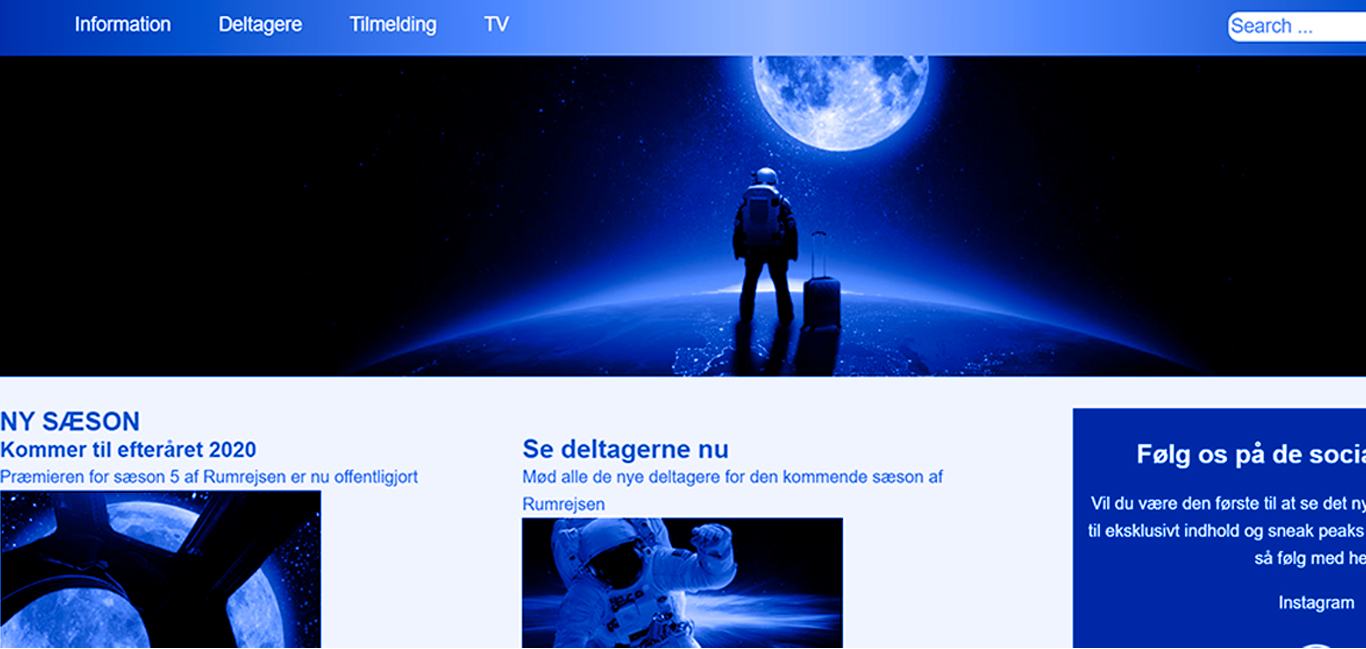
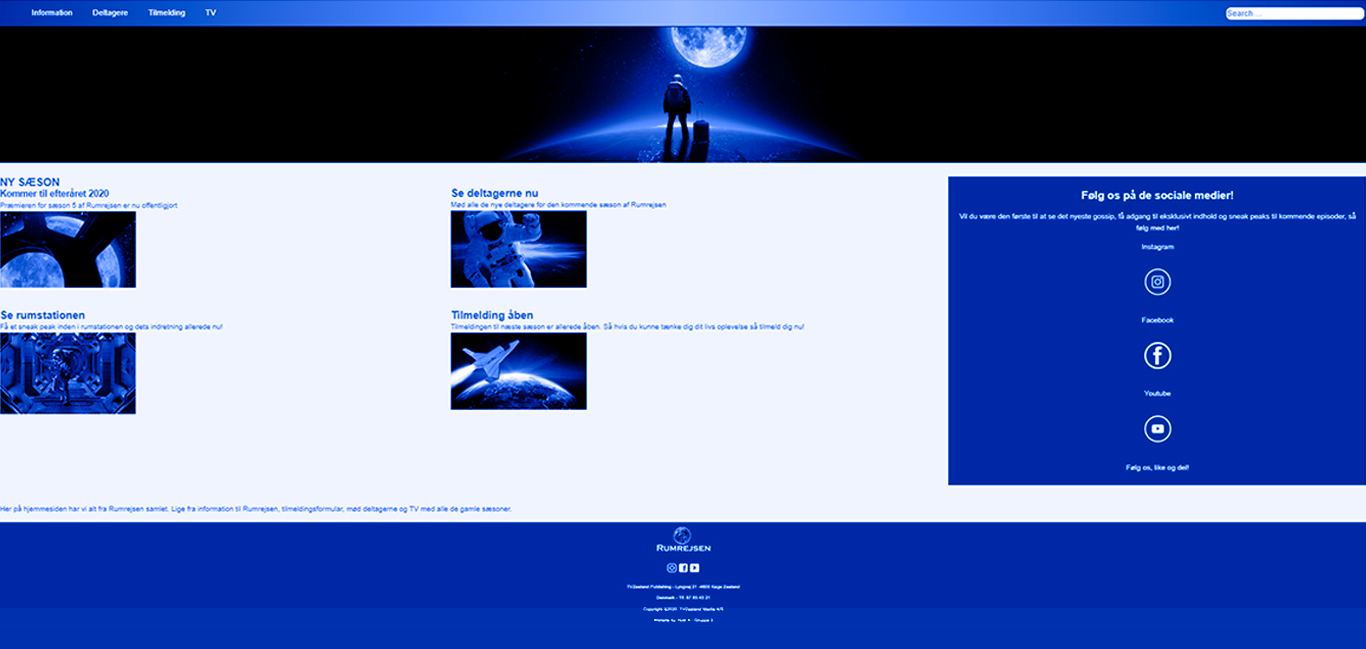
Ændring af billeder + rumrejse underside

diff --git a/style.css b/style.css
@@ -66,6 +66,24 @@ h4 {
     /*Ønsker ikke at vise den til desktop version*/
     display: none;
 }
+
+
+/*button*/
+.btn {
+    cursor: pointer;
+    display: inline-block;
+    border: 0;
+    font-weight: bold;
+    padding: 10px 20px;
+    background-color: #0B7AF3;
+    font-size: 15px;
+    margin-top: 20px;
+}
+
+ .btn:hover {
+    opacity: 0.8;
+}
+
 /*---SLUT GLOBAL---*/
 
 
@@ -171,21 +189,7 @@ header #logo h1 {
     margin: 10px 0 20px 0;
 }
 
-/*button*/
-.sektion_velkommen .btn {
-    cursor: pointer;
-    display: inline-block;
-    border: 0;
-    font-weight: bold;
-    padding: 10px 20px;
-    background-color: #0B7AF3;
-    font-size: 15px;
-    margin-top: 20px;
-}
 
-.sektion_velkommen .btn:hover {
-    opacity: 0.8;
-}
 
 
 
@@ -314,15 +318,6 @@ header #logo h1 {
 
 
 
-
-
-
-
-
-
-
-
-
 /*---Kontakt---*/
 .container_kontakt {
     display: grid;
@@ -345,43 +340,6 @@ header #logo h1 {
 
 
 
-
-
-
-
-
-
-
-
-
-
-
-.underside_boks {
-    text-align: center;
-}
-
-.underside_boks h3 {
-    font-size: 35px;
-}
-
-.underside_boks img {
-    width: 40%;
-}
-
-
- 
-
-
-
-
-
-
-
-
-
-
-
-
 /*--Footer---*/
 footer {
     padding: 20px;
@@ -397,9 +355,121 @@ footer p {
 
 
 
+
+
+
+/*------------------NY SEKTION TIL UNDERSIDER---------------------*/
+
+
+
+/*------Forsideboks Rumrejsen-----*/
+.underside_boks {
+    text-align: center;
+}
+
+.underside_boks h3 {
+    font-size: 35px;
+}
+
+.underside_boks img {
+    width: 80%;
+    height: auto;
+    margin: auto;
+}
+
+
+
+
+/*Underside boks 2 med opgave, løsning, rolle, produkt*/
+.underside {
+    text-align: center;
+}
+
+
+/*----4 punkter til beskrivelse af opgaven---*/
+.grid-container-underside {
+    display: grid;
+    grid-template-columns: 1fr 1fr;
+
+    grid-gap: 20px;
+    text-align: left;
+    margin: auto;
+    width: 70%;
+    margin-left: 200px;
+}
+
+.grid-container-underside img {
+    width: 25%;
+    height: auto;
+}
+
+.test {
+    text-align: center;
+}
+
+
+
+
+
+
+
+
+
+
+
+
+
+/*sektion med færdig arbejde*/
+.underside_færdig_arbejde {
+    text-align: center;
+}
+
+.underside_færdig_arbejde h3 {
+    font-size: 35px;
+}
+
+.underside_færdig_arbejde img{
+    width: 50%;
+    height: auto;
+    margin: auto;
+}
+ 
+
+
+
+
+
+
+
+
+
+
+
+
+
+
+
+
+
+
+
+
+
+
+
+
+
+
+
+
+
 /*----Media queries----*/
-/*only takes effect for 700 pixels or smaller. For tablets*/
+/*Tager kun effekt for 700px eller smallere*/
 @media (max-width: 700px) {
+    .wrapper {
+        width: 90%;
+    }
+
 
     /*burgermenu*/
     .menu-btn {
@@ -441,32 +511,21 @@ footer p {
         transform: translate(-30px);
     }
 
-
-
-
-
-
     /*velkommen*/
     .sektion_velkommen .indhold {
         margin-left: 0;
     }
-
-
 
     /*portfolio*/
     .grid-container {
     grid-template-columns: 1fr 1fr;
     }
 
-
-
     /*kompetencer*/
     .grid-container-kompetencer {
     grid-template-columns: 1fr 1fr;
     grid-template-rows: 1fr 1fr;
     }
-
-
 
 
     /*Om mig*/
@@ -488,9 +547,6 @@ footer p {
     width: 100%;
     }
 
-
-
-
     /*Kontakt*/
     /*mobil og email*/
     .container_kontakt .kompetencer_oplysninger {
@@ -506,7 +562,35 @@ footer p {
         margin-bottom: 0;
     }
 
-    
+
+
+
+
+
+
+    /*----------------UNDERSIDER----------------------*/
+/*Forsidebillede*/
+    .underside_boks img {
+    width: 100%;
+    height: auto;
+    margin: auto;
+}
+
+
+/*opgave, løsning, rolle, produkt*/
+.grid-container-underside {
+    margin-left: 60px;
+    width: 90%;
+}
+
+/*færdig arbejde width*/
+.underside_færdig_arbejde img {
+    width: 80%;
+}
+
+
+
+
 }
 
 

diff --git a/rumrejsen.html b/rumrejsen.html
@@ -36,14 +36,13 @@
         </header>
 
 
-<!--wrapper-->
-<div class="wrapper">
+
 
     
     <section>
         <div class="underside_boks">
-            <h3>Rumrejsen</h3>
-            <img src="./billeder/rumrejsen.jpg" alt="Rumrejsen">
+            <h3 class="sektion_overskrift">Rumrejse</h3>
+            <img class="underside_forsidebillede" src="./billeder/rumrejsen.jpg" alt="Rumrejsen">
         </div>
     </section>
 
@@ -55,7 +54,51 @@
 
 
 
+<!--Underside boks-->
+<section class="underside">        
+        <!--grid container-->
+        <div class="grid-container-underside">
+            <!--box-->
+            <!--grafisk design-->
+            <div>
+                <h4>Opgaven</h4>
+                <p>Opgaven var at konceptudvikle til et fiktivt rumrejseprogram. Konceptet skulle være i forbindelse med salg af rejser ud i rummet.</p>
+            </div>
 
+            <!--webdesign-->
+            <div>
+                <h4>Løsningen</h4>
+                <p>I vores gruppe valgte vi et koncept som omhandlede privatpersoner i et reality-program ude i rummet.</p>
+            </div>
+
+            <!--kommunikation-->
+            <div>
+                <h4>Rolle</h4>
+                <p>HTML/ CSS<br> Konceptudvikle<br> Billedbehandle </p>
+            </div>
+
+            <!--digital markedsføring-->
+            <div>
+                <h4>Produkt</h4>
+                <p>Nedenunder kan du tilgå hjemmesiden og se billeder af min del.</p>
+            </div> 
+
+        </div>
+
+        
+         <!--knap-->
+         <a href="#" class="btn"> Gå til website <i class="fas fa-chevron-right"></i></a>
+</section>
+
+
+<section>
+    <div class="underside_færdig_arbejde">
+        <h3 class="sektion_overskrift">Billeder af arbejde</h3>
+        <img class="underside_arbejde" src="./billeder/eget rumrejse.PNG" alt="Rumrejsen">
+        <img class="underside_arbejde" src="./billeder/rumrejse2.jpg" alt="Rumrejsen">
+        <img class="underside_arbejde" src="./billeder/rumrejse3.jpg" alt="Rumrejsen">
+    </div>
+</section>
 
 
 
